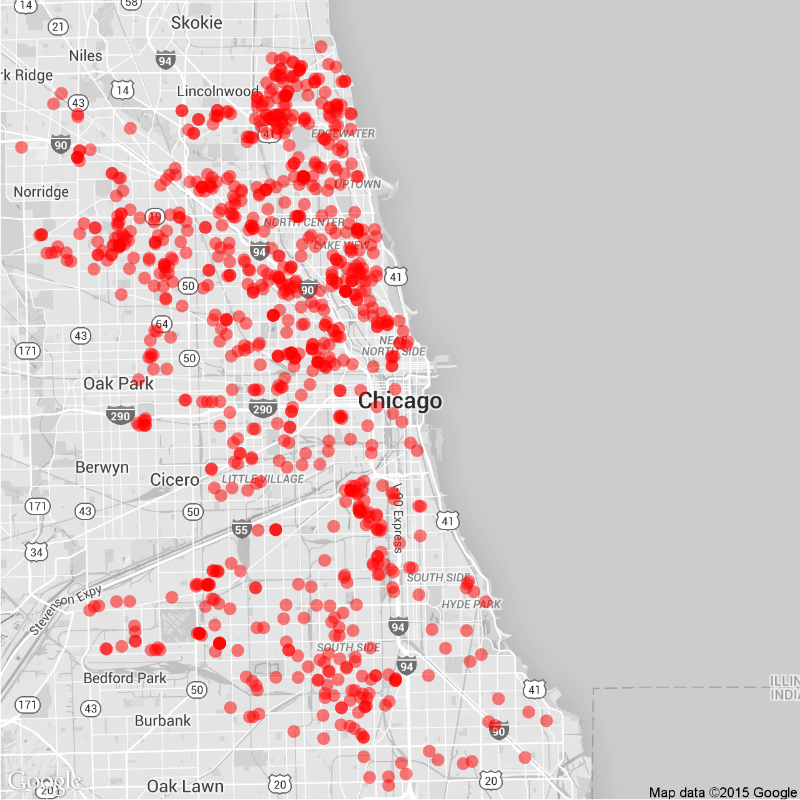
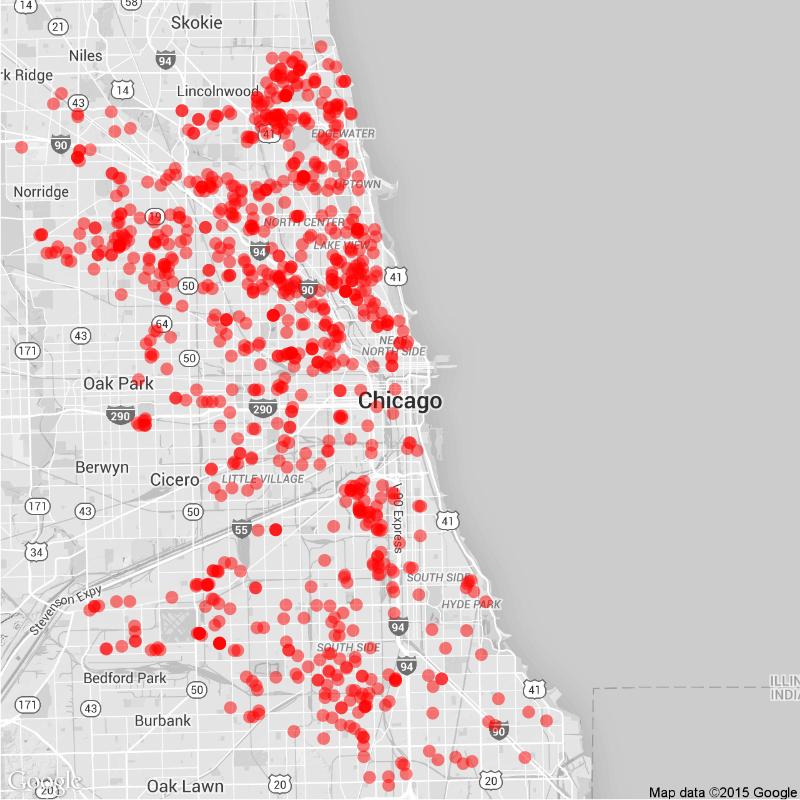
Daily Maps

diff --git a/daily.md b/daily.md
@@ -15,22 +15,22 @@ tags: Chicago NYC weekly daily rats
 
 ### Daily
 
-Yesterday (June 12), there were 126 calls to Chicago's 311 line about rats.
+Yesterday (June 13), there were 64 calls to Chicago's 311 line about rats.
 ![Chicago rat calls to 311 weekly map]({{ site.cityimages }}/daily/Chicago_Rat_Map_Daily.png)
 
 ### Weekly
-Between June 06 and June 12, there were 891 calls to Chicago's 311 line about rats. The average number of weekly calls for this time of year is 810.
+Between June 07 and June 13, there were 906 calls to Chicago's 311 line about rats. The average number of weekly calls for this time of year is 810.
 ![Chicago rat calls to 311 weekly map]({{ site.cityimages }}/daily/Chicago_Rat_Map_Weekly.png)
 ***
 # New York City <a id="nyc"><a>
 
 ### Daily
 
-Yesterday (June 12), there were 0 calls to New York City's 311 line about rats.
+Yesterday (June 13), there were 0 calls to New York City's 311 line about rats.
 ![NYC rat calls to 311 weekly map]({{ site.cityimages }}/daily/NYC_Rat_Map_Daily.png)
 
 ### Weekly
-Between June 06 and June 12, there were 0 calls to New York City's 311 line about rats. The average number of weekly calls for this time of year is 280.
+Between June 07 and June 13, there were 0 calls to New York City's 311 line about rats. The average number of weekly calls for this time of year is 280.
 ![NYC rat calls to 311 weekly map]({{ site.cityimages }}/daily/NYC_Rat_Map_Weekly.png)
 
 Each red dot represents one call about a rat seen in that location. The dots are transparent, so multiple calls from one location will be seen as a solid dot. The usual caveats apply: more calls do not necessarily mean that there are more rats in that location than other parts of the city. A cluster of dots could indicate that one resident is unusually vocal about rodents in his or her neighborhood. Also, more densely populated neighborhoods tend to make more calls to 311.
